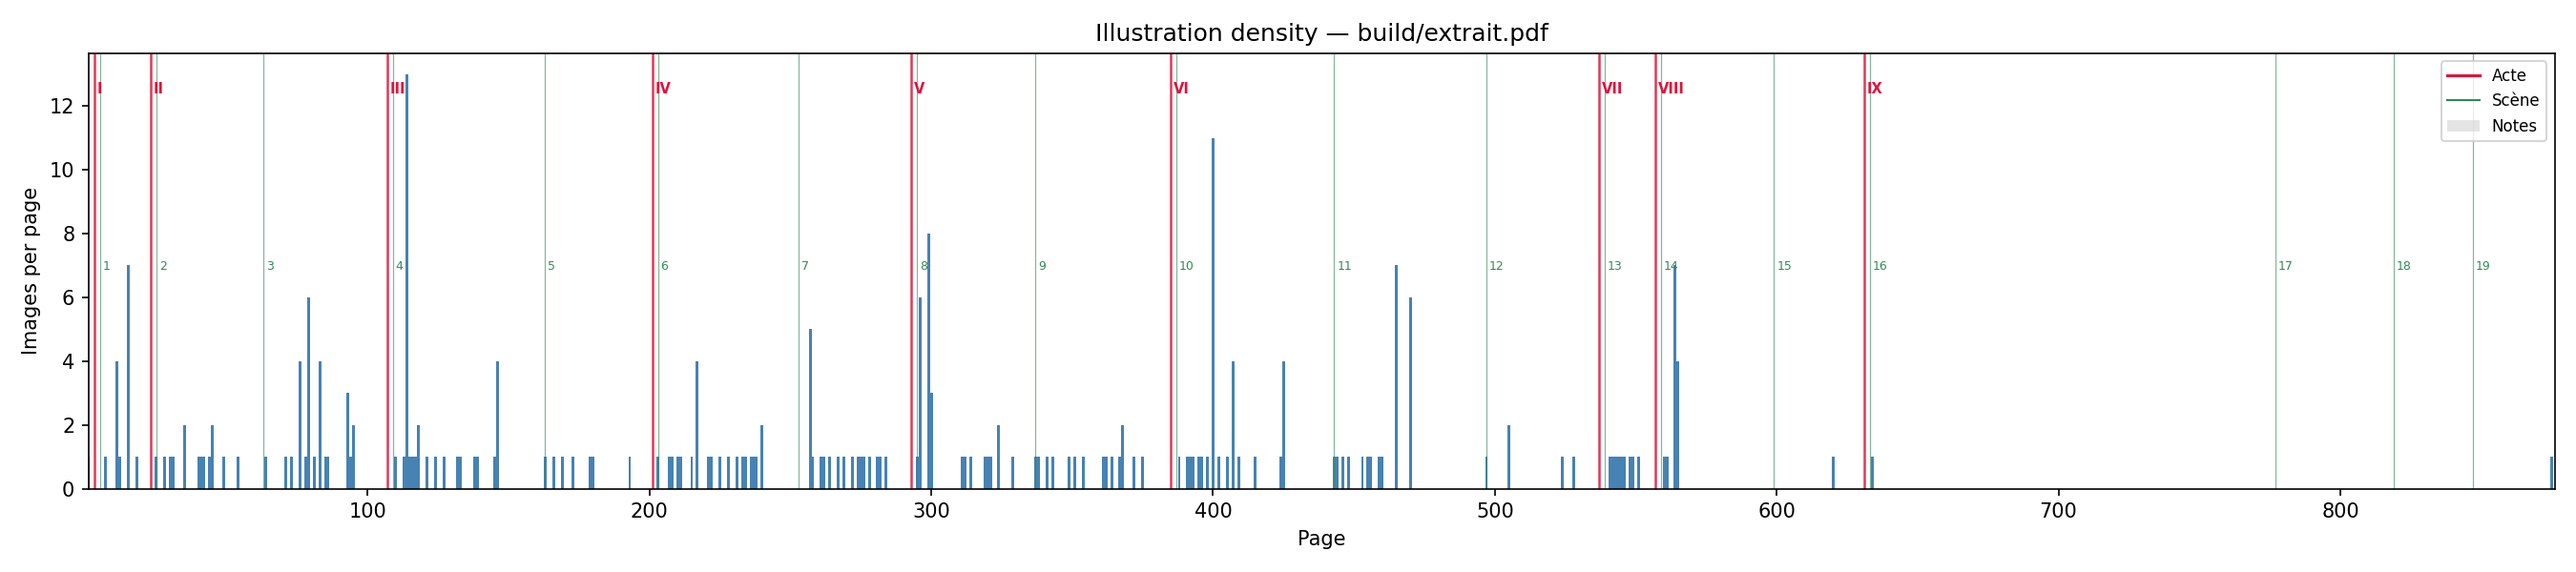
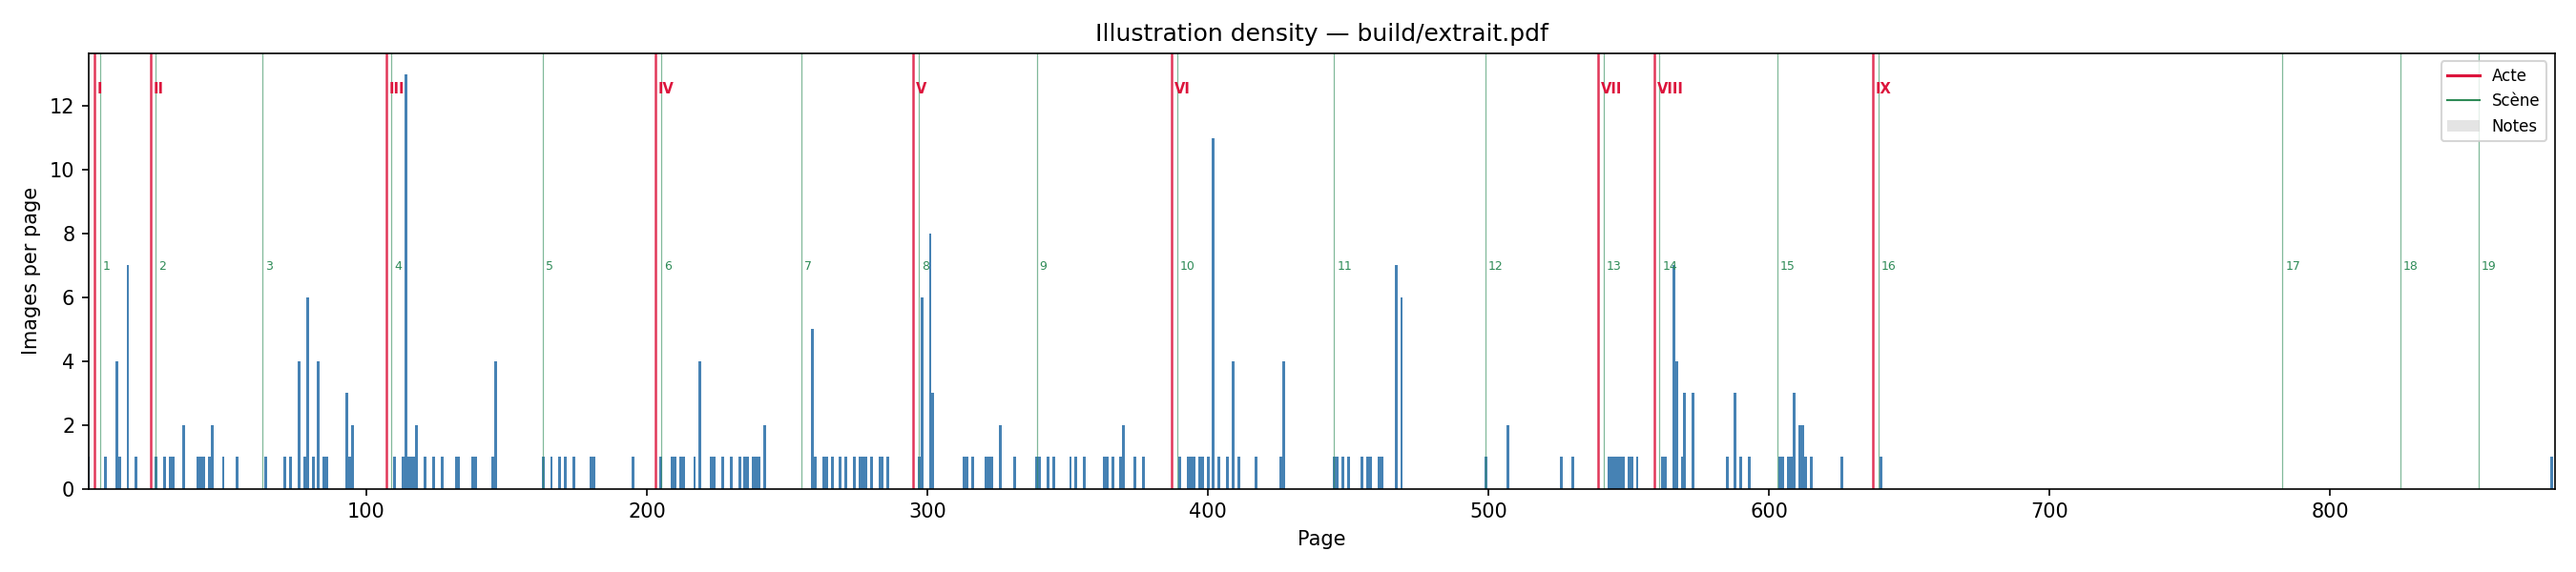
new figure and stats and illus density

diff --git a/actes/acte_03.tex b/actes/acte_03.tex
@@ -851,6 +851,8 @@ Ce chien, à poil ras, de taille moyenne, affublé de longues oreilles pointues 
 
 \textsc{Moi} : En vertu de quoi ? De l’Édit de Nantes\nf{L’Édit de Nantes, signé par Henri IV le 13 avril 1598, accordait aux protestants français (huguenots) la liberté de culte et des droits civiques, mettant fin aux guerres de Religion. Il fut révoqué par Louis XIV en 1685 (Édit de Fontainebleau), provoquant l’exil de plusieurs centaines de milliers de huguenots. \source{fr.wikipedia.org/wiki/\%C3\%89dit\_de\_Nantes}} ?
 
+\iconographieimg[1]{acte_03/scene_5/_0090_édit-de-nantes.png}{Édit de Nantes \\[-3pt] \textup{1598}}   
+
 \textsc{Lui} : Non, de l’article 122-6 du Code Pénal\nf{L’article 122-6 du Code pénal présume la légitime défense pour «~celui qui accomplit l’acte pour repousser, de nuit, l’entrée par effraction, violence ou ruse dans un lieu habité~». Cette présomption est simple~: elle peut être renversée si les circonstances démontrent une riposte disproportionnée. \source{www.legifrance.gouv.fr/codes/article\_lc/LEGIARTI000006417219}} qui m’autorise à repousser, de nuit, toute entrée par effraction, violence ou ruse, dans un lieu habité, le mien en l’occurrence. Le cas de figure me semble avéré.
 
 \textsc{Moi} : Mon cul, oui ! Vous savez ce qu’il en coûte de s’en prendre à un représentant de l’ordre ?
@@ -919,7 +921,7 @@ Un sourire sorti des tréfonds de son âme dévoyée a transformé son visage ju
 
 \textsc{Lui} : Je vous parle d’une exécution sur la chaise électrique.
 
-\iconographiewrapfig{l}{0.4\textwidth}{\bwimage[width=\linewidth]{acte_03/scene_5/_0740_albert-fish-1903.jpg}}{Albert Fish \\[-3pt] \textup{1870--1936}} 
+\iconographiewrapfig{r}{0.4\textwidth}{\bwimage[width=\linewidth]{acte_03/scene_5/_0740_albert-fish-1903.jpg}}{Albert Fish \\[-3pt] \textup{1870--1936}} 
 
 \textsc{Moi} : Merci, j’avais compris. Non, évidemment, je n’ai jamais assisté à une exécution de ce genre.
 
@@ -983,13 +985,13 @@ Pendant ce temps, Titus était aux prises avec Niccolo.
 
 À première vue, la bataille semblait inégale. D’un côté Titus, force de la nature dépassant le mètre quatre-vingt-dix et capable de décorner un buffle à mains nues, et de l’autre Niccolo, son chapeau de cowboy ridicule, ses oreilles en chou-fleur et son nez épaté, d’une carrure impressionnante, certes, et doté de paluches surdimensionnées, mais dont la taille s’apparentait à celle de ce qu’on aurait pu appeler un «~nain de grande taille~», c’est-à-dire grand pour un nain mais totalement ridicule pour un être humain normalement constitué. Attention, je ne prétends aucunement que les nains sont des êtres humains anormalement constitués. Non, je dis juste que certaines particularités physiques permettent de les distinguer à coup sûr du commun des mortels. Et qui sait, peut-être un jour régneront-ils en maîtres sur la Terre, ce qui ne serait d’ailleurs pas une mauvaise idée car on pourrait réduire considérablement la hauteur sous plafond des appartements et loger ainsi beaucoup plus de monde. Mais bon, on n’en est pas encore là (cela dit, petite prévision gratuite en passant, je ne serais pas étonné que l’être humain rétrécisse dans les siècles à venir, jusqu’à retrouver une taille proche de celle qu’il avait à la préhistoire).
 
-Donc, si on s’en tenait aux dimensions des belligérants, la bataille semblait inégale. Sauf que Niccolo était un boxeur hors pair, aussi difficile à toucher qu’une anguille. Titus, après un corps-à-corps viril pendant lequel il avait pu juger de la force hors du commun de son adversaire, \iconographiewrapfig{r}{0.5\textwidth}{\bwimage[width=\linewidth]{acte_03/scene_5/_0870_colt-pocket-hammerless.jpg}}{Colt Pocket Hammerless}était néanmoins parvenu à lui faire lâcher son engin (je parle bien sûr de son Smith \& Wesson Bodyguard 380, 380 pour 380 ACP, soit le 9 mm court conçu dès 1903 par le très inventif John Moses Browning\nf{John Moses Browning (1855--1926), armurier américain, l’un des inventeurs les plus prolifiques de l’histoire des armes à feu. Outre la cartouche .380 ACP (1903), il conçut le Colt M1911, le Browning Hi-Power, la mitrailleuse M2 «~Ma Deuce~» et le Winchester Model 1894. \source{fr.wikipedia.org/wiki/John\_Moses\_Browning}} pour équiper le Colt Pocket Hammerless\nf{Pistolet semi-automatique américain conçu par John Moses Browning et fabriqué par Colt de 1903 à 1945~; sans chien apparent (d’où «~Hammerless~»), compact et discret, il fut largement adopté par les forces de l’ordre et les civils comme arme de poche. \source{fr.wikipedia.org/wiki/Colt\_1903/1908\_Pocket\_Hammerless}}). Un Titus, je le rappelle, qui avait lui-même laissé tomber son Glock quelques instants auparavant. 
+Donc, si on s’en tenait aux dimensions des belligérants, la bataille semblait inégale. Sauf que Niccolo était un boxeur hors pair, aussi difficile à toucher qu’une anguille. Titus, après un corps-à-corps viril pendant lequel il avait pu juger de la force hors du commun de son adversaire, \iconographiewrapfig{r}{0.42\textwidth}{\bwimage[width=\linewidth]{acte_03/scene_5/_0870_colt-pocket-hammerless.jpg}}{Colt Pocket Hammerless}était néanmoins parvenu à lui faire lâcher son engin (je parle bien sûr de son Smith \& Wesson Bodyguard 380, 380 pour 380 ACP, soit le 9 mm court conçu dès 1903 par le très inventif John Moses Browning\nf{John Moses Browning (1855--1926), armurier américain, l’un des inventeurs les plus prolifiques de l’histoire des armes à feu. Outre la cartouche .380 ACP (1903), il conçut le Colt M1911, le Browning Hi-Power, la mitrailleuse M2 «~Ma Deuce~» et le Winchester Model 1894. \source{fr.wikipedia.org/wiki/John\_Moses\_Browning}} pour équiper le Colt Pocket Hammerless\nf{Pistolet semi-automatique américain conçu par John Moses Browning et fabriqué par Colt de 1903 à 1945~; sans chien apparent (d’où «~Hammerless~»), compact et discret, il fut largement adopté par les forces de l’ordre et les civils comme arme de poche. \source{fr.wikipedia.org/wiki/Colt\_1903/1908\_Pocket\_Hammerless}}). Un Titus, je le rappelle, qui avait lui-même laissé tomber son Glock quelques instants auparavant. 
 
 Niccolo a entamé les débats par un direct au corps qui s’est échoué sur les abdos de Titus, naturellement bien doté de ce côté-là. Si c’était moi qui avais pris ce coup, je crois que je serais encore allongé par terre à regarder danser les étoiles dans le ciel. Il était évident, à voir la façon dont il se déplaçait, que Niccolo avait de nombreuses années de boxe derrière lui. Titus s’est dit qu’un crochet au foie suivi d’une droite à la mâchoire serait une combinaison intéressante à essayer. En face de lui, Niccolo dansait avec la légèreté d’une libellule, distribuant au passage des coups dont la plupart faisaient mouche. Le crochet au foie de Titus n’est pas arrivé à destination, et la mâchoire tant convoitée n’était plus là quand son poing s’est présenté. Pendant ce temps, les jabs continuaient à pleuvoir et atteindre leur cible avec une précision diabolique. Titus, même s’il était loin d’avoir inventé l’eau tiède, était quand même pourvu de facultés intellectuelles lui permettant de se faire une idée raisonnable de la situation. Et le moins qu’on puisse dire, c’est que la sienne était tout sauf enviable. Il ressemblait à un de ces sacs de sable sur lesquels les boxeurs frappent à tour de bras pour s’entraîner. À aucun moment il n’avait le temps de s’organiser tant Niccolo faisait preuve d’une rapidité déconcertante. Il pensait éviter un coup, et venait au contraire s’empaler sur un autre qu’il n’avait pas vu venir. Sa résistance était mise à rude épreuve et la défaite semblait inévitable.
 
 C’est alors qu’un coup de théâtre, de ceux qui ont fait la renommée des tragédies antiques, s’est produit.
 
-\iconographiewrapfig{r}{0.38\textwidth}{\bwimage[width=\linewidth]{acte_03/scene_5/_0880_rudolf-noureev.jpg}}{Rudolf Noureev \\[-3pt] \textup{1938--1993}} 
+\iconographiewrapfig{l}{0.38\textwidth}{\bwimage[width=\linewidth]{acte_03/scene_5/_0880_rudolf-noureev.jpg}}{Rudolf Noureev \\[-3pt] \textup{1938--1993}} 
 
 Alors que Niccolo continuait à tabasser gentiment sa proie, s’amuser avec elle, la réduire méthodiquement à l’impuissance, il a mis le pied dans un trou. Sa cheville a émis un craquement de mauvais augure, et l’expression de joie sadique qui tapissait son visage s’est aussitôt changée en voile noir et grimaçant. D’un coup, qui ne devait rien à Titus, le Rudolf Noureev\nf{Rudolf Noureev (1938--1993), danseur et chorégraphe soviétique, considéré comme le plus grand danseur de ballet du \textsc{xx}e siècle. Il fit défection à l’Ouest le 17 juin 1961 à l’aéroport du Bourget (Paris) lors d’une tournée du Ballet Kirov, puis dirigea le Ballet de l’Opéra de Paris (1983--1989). \source{fr.wikipedia.org/wiki/Rudolf\_Noure\%C3\%AFev}} des rings s’est transformé en pantin désarticulé incapable de mettre un pied devant l’autre, boitillant de façon ridicule en essayant de se protéger de son mieux.
 
@@ -1324,4 +1326,6 @@ Titus et moi, en tout point fidèles à la réputation d’excellence qui était
 
 Enfin, et j’en terminerai là, j’ai embarqué quelques flacons de Bourgogne supplémentaires avant de prendre congé, la seule idée qu’ils puissent tomber entre de mauvaises mains me rendant littéralement ivre de rage. J’estimais, entre ma première razzia et celle-ci, avoir sauvé du naufrage les plus remarquables d’entre eux, même si je m’étais vu, bien à contrecœur, dans l’obligation de faire des choix qui avaient été pour moi autant de coups de poignard dans le dos de ma passion pour le jus de raisin fermenté. Ôôôôô fermentus, fermentatis, fermentatorum, laisse à tout jamais déferler dans mon gosier avide les flots tumultueux de ta splendeur fruitée aux saveurs incomparables ! Fasse que, à jamais enchaîné au flux continu de tes liquides bienfaits, jamais mon âme ne connaisse ce dessèchement intérieur qui ronge les meilleurs d’entre nous ! Amen.
 
-\iconographieinlineblock[b]{\bwimage[width=0.8\textwidth]{acte_03/scene_5/_0790_george-stinney_tomb.png}}{}
+%%% \iconographieinlineblock[b]{\bwimage[width=0.8\textwidth]{acte_03/scene_5/_0790_george-stinney_tomb.png}}{}
+
+\iconographieinlineblock[b]{\bwimage[width=0.9\textwidth]{acte_03/scene_5/_0000_francis-bacon-study-after-velázquez-s-portrait-of-pope-innocent-x.jpg}}{Francis Bacon \textup{(1909-1992)} · Study after Velázquez's Portrait of Pope Innocent X \\[-3pt] \textup{1953}}

diff --git a/figures/anubis_fig.tex b/figures/anubis_fig.tex
@@ -1,0 +1,38 @@
+\vspace*{\fill}
+
+% --- Panorama : Pyramides de Gizeh (AR 4.0 — banderole pleine largeur) ---
+\noindent\bwimage[width=\linewidth]{acte_03/scene_5/_0910_pyramides-de-gizeh.jpg}\\[0.2em]
+{\centering\figcaptionname\itshape Pyramides de Gizeh · \textup{IV}\textsuperscript{e}~dynastie\par}
+
+\vspace{\baselineskip}
+
+% --- row 2 : Anubis (AR 0.74, gauche) · Chien de garenne (AR 1.33, droite) ---
+% Même hauteur : 0.350 × 114mm = 39.9mm → h = 53.9mm
+%                0.620 × 114mm = 70.7mm → h = 53.0mm  ≈ identique
+\noindent
+\begin{minipage}[t]{0.350\textwidth}
+  \begin{flushleft}
+    \bwimage[width=\linewidth]{acte_03/scene_5/_0900_anubis.jpg}\\[0.3em]
+    {\figcaptionname\itshape Anubis}\\[-6pt]
+    {\figcaptiondetail Gardien des nécropoles}
+  \end{flushleft}
+\end{minipage}
+\hfill
+\begin{minipage}[t]{0.620\textwidth}
+  \begin{flushright}
+    \bwimage[width=\linewidth]{acte_03/scene_5/_0930_chien-de-garenne-des-canaries.jpg}\\[0.3em]
+    {\figcaptionname\itshape Chien de garenne des Canaries}\\[-6pt]
+    {\figcaptiondetail\textit{Podenco Canario} · descendant du Tesem}
+  \end{flushright}
+\end{minipage}
+
+\vspace{\baselineskip}
+
+% --- Tesem centré (AR 1.35 — 400×297px, résolution modeste) ---
+\begin{center}
+  \bwimage[width=0.45\linewidth]{acte_03/scene_5/_0920_tesem.jpg}\\[0.3em]
+  {\figcaptionname\itshape Tesem}\\[-6pt]
+  {\figcaptiondetail Le chien de Khéops · \textup{$\approx$\,3000 av.~J.-C.}}
+\end{center}
+
+\vspace*{\fill}

diff --git a/test_illus.tex b/test_illus.tex
@@ -7,7 +7,7 @@
 \pagestyle{gallimard}
 
 \acte{
-  \input{actes/acte_08.tex}
+  \input{actes/acte_03.tex}
 }
 % ← change here
 

diff --git a/figures/anubis.tex b/figures/anubis.tex
@@ -1,0 +1,1 @@
+\def\figname{anubis}\input{figure.tex}

diff --git a/stats.md b/stats.md
@@ -9,7 +9,7 @@ Mots = texte original uniquement (hors contenu des notes `\nf{}`).
 | II.2 | Ça a officiellement commencé le jour où… |   8 534 |   4.59% |  20.21% |    32 |  0.37% |            14 |  0.21% |  43.75% |
 | II.3 | Ce même jour, en fin d’après-midi, on… |   8 676 |   4.66% |   5.66% |    53 |  0.61% |            24 |  0.29% |  45.28% |
 | III.4 | Quelques jours plus tard, les journaux ont… |  11 080 |   5.96% |  28.75% |    78 |  0.70% |            32 |  0.41% |  41.03% |
-| III.5 | Dans le fond de la pièce, il… |   8 422 |   4.53% |  43.15% |    32 |  0.38% |             7 |  0.15% |  21.88% |
+| III.5 | Dans le fond de la pièce, il… |   8 440 |   4.54% |  43.15% |    32 |  0.38% |             8 |  0.17% |  25.00% |
 | IV.6 | Il y a ce qu’on appelle la… |  11 262 |   6.05% |  28.50% |    45 |  0.40% |            22 |  0.27% |  48.89% |
 | IV.7 | Depuis que mon ami Grégoire Lussier, ancien… |   8 365 |   4.50% |  30.76% |    43 |  0.51% |            18 |  0.31% |  41.86% |
 | V.8 | Croyez-le ou non, mais Aymeric Jégou et… |   8 921 |   4.80% |  56.64% |    44 |  0.49% |            27 |  0.70% |  61.36% |
@@ -24,30 +24,30 @@ Mots = texte original uniquement (hors contenu des notes `\nf{}`).
 | IX.17 | Greg, que je n’avais pas entendu arriver… |  10 467 |   5.63% |   3.09% |    53 |  0.51% |             — |      — |   0.00% |
 | IX.18 | Comme beaucoup d’urgentistes souffrant de handicap visuel… |   7 373 |   3.96% |  48.11% |    10 |  0.14% |             — |      — |   0.00% |
 | IX.19 | Il est toujours extrêmement douloureux de mettre… |   6 073 |   3.26% |  24.88% |    23 |  0.38% |             — |      — |   0.00% |
-| **Total** | | **186 014** | **100%** | **29.41%** | **1064** | **0.57%** | **269** | **0.20%** | **25.28%** |
+| **Total** | | **186 032** | **100%** | **29.42%** | **1064** | **0.57%** | **270** | **0.21%** | **25.38%** |
 
 # Statistiques par acte (avant découpage)
 
 Mots = texte original uniquement (hors contenu des notes `\nf{}`).
 % notes et % illustrations = rapport au nombre de mots.
 
-| Acte | p. | pp. | Mots | % livre | Notes | % mots | Illustrations | % mots | % dial. |
-|-----:|---:|----:|-----:|--------:|------:|-------:|--------------:|-------:|--------:|
-| I    |   3 |  14 |   3 931 |   2.11% |    22 |  0.56% |            14 |  0.36% |   4.53% |
-| II   |  17 |  56 |  17 210 |   9.25% |    85 |  0.49% |            38 |  0.22% |  12.88% |
-| III  |  73 |  68 |  19 502 |  10.48% |   110 |  0.56% |            39 |  0.20% |  34.97% |
-| IV   | 141 |  64 |  19 627 |  10.55% |    88 |  0.45% |            40 |  0.20% |  29.46% |
-| V    | 205 |  66 |  19 687 |  10.58% |   100 |  0.51% |            42 |  0.21% |  42.88% |
-| VI   | 271 | 106 |  29 694 |  15.96% |   198 |  0.67% |            58 |  0.20% |  46.57% |
-| VII  | 377 |  14 |   2 852 |   1.53% |    13 |  0.46% |             9 |  0.32% |  56.21% |
-| VIII | 391 |  54 |  16 567 |   8.91% |   111 |  0.67% |            28 |  0.17% |  21.62% |
-| IX   | 445 | 182 |  56 944 |  30.61% |   337 |  0.59% |             1 |  0.00% |  21.54% |
-| **Total** |  |  | **186 014** | **100%** | **1064** | **0.57%** | **269** | **0.14%** | **29.41%** |
+| Acte | Mots | % livre | Notes | % mots | Illustrations | % mots | % dial. |
+|-----:|-----:|--------:|------:|-------:|--------------:|-------:|--------:|
+| I    |   3 931 |   2.11% |    22 |  0.56% |            14 |  0.36% |   4.53% |
+| II   |  17 210 |   9.25% |    85 |  0.49% |            38 |  0.22% |  12.88% |
+| III  |  19 520 |  10.49% |   110 |  0.56% |            40 |  0.20% |  34.98% |
+| IV   |  19 627 |  10.55% |    88 |  0.45% |            40 |  0.20% |  29.46% |
+| V    |  19 687 |  10.58% |   100 |  0.51% |            42 |  0.21% |  42.88% |
+| VI   |  29 694 |  15.96% |   198 |  0.67% |            58 |  0.20% |  46.57% |
+| VII  |   2 852 |   1.53% |    13 |  0.46% |             9 |  0.32% |  56.21% |
+| VIII |  16 567 |   8.91% |   111 |  0.67% |            28 |  0.17% |  21.62% |
+| IX   |  56 944 |  30.61% |   337 |  0.59% |             1 |  0.00% |  21.54% |
+| **Total** | **186 032** | **100%** | **1064** | **0.57%** | **270** | **0.15%** | **29.42%** |
 
 ## Estimation illustrations restantes
 
-Cible : **1 illustration tous les 600 mots** (186 014 mots → **310** illustrations).  
-Actuellement **269** — il en manque **41** — **86.8 %** réalisé.
+Cible : **1 illustration tous les 600 mots** (186 032 mots → **310** illustrations).  
+Actuellement **270** — il en manque **40** — **87.1 %** réalisé.
 
 Sur-illustrées (> 2× la cible) : I.1 (14/6.6)
-Sous-illustrées (< 0.5× la cible) : III.5 (7/14.0), VI.12 (5/15.0), IX.16 (1/55.1), IX.17 (0/17.4), IX.18 (0/12.3), IX.19 (0/10.1)
+Sous-illustrées (< 0.5× la cible) : VI.12 (5/15.0), IX.16 (1/55.1), IX.17 (0/17.4), IX.18 (0/12.3), IX.19 (0/10.1)
